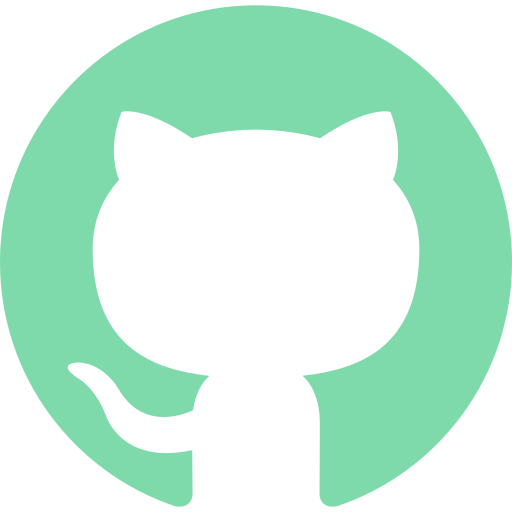
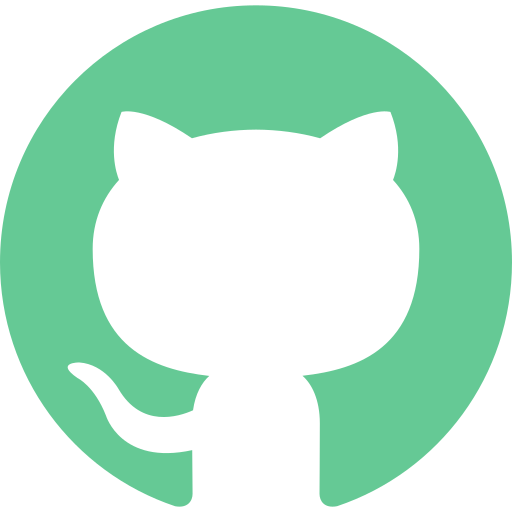
update

diff --git a/script/script.js b/script/script.js
@@ -1,4 +1,6 @@
 // get HTML elements and assign them to variables
+let body = document.getElementsByTagName("body")[0];
+let gb = document.getElementById("github");
 
 // info
 let nowPlaying = document.getElementById("now-playing");
@@ -7,9 +9,11 @@ let songName = document.getElementById("song-name");
 let artistName = document.getElementById("artist-name");
 
 // buttons
+let restart = document.getElementById("restart");
 let previousSong = document.getElementById("song-previous");
 let playPause = document.getElementById("pause-play");
 let nextSong = document.getElementById("song-next");
+let repeatSong = document.getElementById("repeat-song");
 
 // song-slider
 let current_Time = document.getElementById("current-time");
@@ -33,73 +37,111 @@ let trackList = [
     name: "Ylang Ylang (Slowed)",
     artist: "FKJ",
     image: "./images/ylang-ylang.png",
+    link: "https://open.spotify.com/artist/2FwDTncULUnmANIh7qKa5z",
     path: "./songs/FKJ - Ylang Ylang (Slowed-Reverb).mp3",
+    artistnamecolor: "#65c995",
+    darkcolor: "#7EDAAA",
+    backgroundColor: "#A1FFCE",
+    backgroundColorGradient: "linear-gradient(to right, #FAFFD1, #A1FFCE)",
+    class: "fkj",
+    github: "./images/github.png",
   },
   {
     name: "Let Go (Slowed)",
     artist: "Ark Patrol ft. Veronika Redd",
     image: "./images/let-go.png",
+    link: "https://open.spotify.com/artist/3zaxUd86U92CdZkNa6NUo9",
     path: "./songs/Ark Patrol - Let Go.mp3",
+    artistnamecolor: "#c95038",
+    darkcolor: "#dd664e",
+    backgroundColor: "#f6cab7",
+    backgroundColorGradient: "linear-gradient(to right, #faeae2, #f6cab7, #efaa90, #e7896d, #dd664e)",
+    class: "ark-patrol",
+    github: "./images/github1.png"
   },
   {
     name: "Love Unlimited",
     artist: "Blackbird Blackbird",
     image: "./images/love-unlimited.png",
+    link: "https://open.spotify.com/artist/2TWKl87Jnmd5MApKEpVCxA",
     path: "./songs/Blackbird Blackbird - Love Unlimited.mp3",
   },
   {
     name: "love, death, distraction",
     artist: "EDEN",
     image: "./images/love-death-distraction.png",
+    link: "https://open.spotify.com/artist/1t20wYnTiAT0Bs7H1hv9Wt",
     path: "./songs/EDEN - love, death, distraction.mp3",
   },
   {
     name: "Poison Tree",
     artist: "Grouper",
     image: "./images/poison-tree.png",
+    link: "https://open.spotify.com/artist/31uyAcnY0kjjKKIQZMKX4i",
     path: "./songs/Grouper - Poison Tree.mp3",
   },
   {
     name: "Comfort Chain",
     artist: "Instupendo",
     image: "./images/comfort-chain.png",
+    link: "https://open.spotify.com/artist/3ctnkEZGtVBTxS7IMin8nC",
     path: "./songs/Instupendo - Comfort Chain.mp3",
   },
   {
     name: "Gravity",
     artist: "EDEN",
     image: "./images/gravity.png",
+    link: "https://open.spotify.com/artist/1t20wYnTiAT0Bs7H1hv9Wt",
     path: "./songs/EDEN - Gravity.mp3",
   },
   {
     name: "Forever",
     artist: "Labirinth",
     image: "./images/forever.png",
+    link: "https://open.spotify.com/artist/2feDdbD5araYcm6JhFHHw7",
     path: "./songs/Labrinth – Forever.mp3",
   },
   {
     name: "Goodbye",
     artist: "Ramsey",
     image: "./images/goodbye.png",
+    link: "https://open.spotify.com/artist/1se3w7gpZkwcJYgHSPDoQ8",
     path: "./songs/Ramsey - Goodbye.mp3",
   },
   {
     name: "Yellow Box",
     artist: "The Neighbourhood",
     image: "./images/yellow-box.png",
+    link: "https://open.spotify.com/artist/77SW9BnxLY8rJ0RciFqkHh",
     path: "./songs/The Neighbourhood - Yellow Box.mp3",
   },
 ];
 //
 
 // add events to the elements
+restart.addEventListener("click", goToStart);
 previousSong.addEventListener("click", prevTrack);
 playPause.addEventListener("click", playPauseTrack);
 nextSong.addEventListener("click", nextTrack);
+repeatSong.addEventListener("click", songLoop);
 songSlider.addEventListener("change", seekTo);
 volumeSlider.addEventListener("change", setVolume);
 
 // functions
+function goToStart() {
+  currTrack.currentTime = 0;
+}
+//
+
+function songLoop() {
+  if (currTrack.loop == false) {
+    currTrack.setAttribute("loop", true);
+    repeatSong.style.color = "#000000";
+  } else {
+    currTrack.removeAttribute("loop");
+    repeatSong.style.color = "#000000c0";
+  }
+}
 
 // function to load new track from the tracklist
 function loadTrack(trackIndex) {
@@ -111,12 +153,24 @@ function loadTrack(trackIndex) {
   currTrack.src = trackList[trackIndex].path;
   currTrack.load();
 
-  //update details of the track
+  //update details of the track and page appearance
+  body.style.background = trackList[trackIndex].backgroundColorGradient;
+  songImg.style.boxShadow = "10px 8px 0px" + trackList[trackIndex].darkcolor;
   songImg.src = trackList[trackIndex].image;
+  gb.src = trackList[trackIndex].github;
+  songSlider.style.setProperty("--track-background", trackList[trackIndex].darkcolor);
+  volumeSlider.style.setProperty("--track-background", trackList[trackIndex].darkcolor);
   songName.textContent = trackList[trackIndex].name;
   artistName.textContent = trackList[trackIndex].artist;
+  artistName.addEventListener("mouseover", function () {
+    artistName.style.color = trackList[trackIndex].artistnamecolor;
+  });
+  artistName.addEventListener("mouseout", function () {
+    artistName.style.color = "#000000c0";
+  });
   nowPlaying.textContent =
     "Now playing " + (trackIndex + 1) + " of " + trackList.length;
+  artistName.setAttribute("href", trackList[trackIndex].link);
 
   // set an interval of 1000 milliseconds (1 second) for updating the seek slider
   updateTimer = setInterval(seekUpdate, 1000);
@@ -243,3 +297,4 @@ function seekUpdate() {
   }
 }
 //
+

diff --git a/tries/ark-patrol.html b/tries/ark-patrol.html
@@ -1,6 +1,22 @@
-@font-face {
+<!DOCTYPE html>
+<html lang="en">
+
+<head>
+    <meta charset="UTF-8">
+    <meta http-equiv="X-UA-Compatible" content="IE=edge">
+    <meta name="viewport" content="width=device-width, initial-scale=1.0">
+    <title>Music Player</title>
+    <link href="./style/style.css" rel="stylesheet">
+    <script src="./script/script.js" defer></script>
+    <link href="./images/musical-note.png" rel="icon">
+    <!-- <link rel="stylesheet" href="https://cdnjs.cloudflare.com/ajax/libs/font-awesome/6.0.0-beta3/css/all.min.css"
+        integrity="sha512-Fo3rlrZj/k7ujTnHg4CGR2D7kSs0v4LLanw2qksYuRlEzO+tcaEPQogQ0KaoGN26/zrn20ImR1DfuLWnOo7aBA=="
+        crossorigin="anonymous" referrerpolicy="no-referrer" /> -->
+    <link href="https://kit-pro.fontawesome.com/releases/v5.15.4/css/pro.min.css" rel="stylesheet">
+    <style>
+        @font-face {
     font-family: myFont;
-    src: url("./font/typewcond_regular.otf");
+    src: url("../style/font/typewcond_regular.otf");
 }
 
 * {
@@ -12,8 +28,8 @@
 }
 
 body {
-    background: #A1FFCE;
-    background: linear-gradient(to right, #FAFFD1, #A1FFCE);
+    background: #f6cab7;
+    background: linear-gradient(to right, #faeae2, #f6cab7, #efaa90, #e7896d, #dd664e);
 
 }
 
@@ -61,8 +77,8 @@ a:hover {
     margin-bottom: 15px;
 }
 
-#img-song {
-    box-shadow: 10px 8px 0px #7EDAAA;
+#song-img img {
+    box-shadow: 10px 8px 0px #dd664e;
 }
 
 .buttons {
@@ -89,8 +105,7 @@ a:hover {
     font-size: 2rem;
 }
 
-#restart,
-#repeat-song {
+#restart, #repeat-song {
     font-size: 1.4rem;
 }
 
@@ -135,13 +150,19 @@ input[type="range"]:focus {
 input[type="range"]::-webkit-slider-runnable-track {
     height: 5px;
     cursor: pointer;
-    background: var(--track-background, #7EDAAA);
+}
+
+.fkj::-webkit-slider-runnable-track {
+    background: #dd664e;
 }
 
 input[type="range"]::-moz-range-track {
     height: 5px;
     cursor: pointer;
-    background: var(--track-background, #7EDAAA);
+}
+
+.fkj::-moz-range-track {
+    background: #dd664e;
 }
 
 input[type="range"]::-webkit-slider-thumb {
@@ -201,3 +222,38 @@ input[type="range"]::-ms-thumb:hover {
         width: 85px;
     }
 }
+    </style>
+</head>
+
+<body>
+    <a id="github" href="https://github.com/isabdch" target="_blank"><img src="../images/github1.png" height="23px"></a>
+    <div class="player">
+        <div class="info">
+            <div id="now-playing">Now playing X of Y</div>
+            <div id="song-img"><img id="img-song" src="../images/let-go.png" alt="fkj - ylang ylang" height="220px">
+            </div>
+            <div id="song-name">Song name</div>
+            <a id="artist-name" target="_blank" href="https://open.spotify.com/artist/2FwDTncULUnmANIh7qKa5z"></a></a>
+        </div>
+        <div class="buttons">
+            <div id="go-start"><i id="restart" class="fas fa-undo"></i></div>
+            <div id="previous-song"><i id="song-previous" class="fas fa-step-backward"></i></div>
+            <div id="play-pause"><i id="pause-play" class="fas fa-play-circle"></i></div>
+            <!-- <i class="fas fa-pause-circle"></i> -->
+            <div id="next-song"><i id="song-next" class="fas fa-step-forward"></i></div>
+            <div id="repeat"><i id="repeat-song" class="fas fa-repeat"></i></div>
+        </div>
+        <div class="slider">
+            <div id="current-time">00:00</div>
+            <input class="fkj" id="song-slider" type="range" value="0" min="0" max="100">
+            <div id="total-duration">00:00</div>
+        </div>
+        <div class="slider">
+            <i class="fas fa-volume-off"></i>
+            <input class="fkj" id="volume-slider" type="range" value="50" min="0" max="100">
+            <i class="fas fa-volume-up"></i>
+        </div>
+    </div>
+</body>
+
+</html>

diff --git a/index.html b/index.html
@@ -9,34 +9,38 @@
     <link href="./style/style.css" rel="stylesheet">
     <script src="./script/script.js" defer></script>
     <link href="./images/musical-note.png" rel="icon">
-    <link rel="stylesheet" href="https://cdnjs.cloudflare.com/ajax/libs/font-awesome/6.0.0-beta3/css/all.min.css"
+    <!-- <link rel="stylesheet" href="https://cdnjs.cloudflare.com/ajax/libs/font-awesome/6.0.0-beta3/css/all.min.css"
         integrity="sha512-Fo3rlrZj/k7ujTnHg4CGR2D7kSs0v4LLanw2qksYuRlEzO+tcaEPQogQ0KaoGN26/zrn20ImR1DfuLWnOo7aBA=="
-        crossorigin="anonymous" referrerpolicy="no-referrer" />
+        crossorigin="anonymous" referrerpolicy="no-referrer" /> -->
+    <link href="https://kit-pro.fontawesome.com/releases/v5.15.4/css/pro.min.css" rel="stylesheet">
 </head>
 
 <body>
-    <a href="https://github.com/isabdch" target="_blank"><img src="./images/github.png" height="23px"></a>
+    <a id="gh" href="https://github.com/isabdch" target="_blank"><img id="github" src="./images/github.png" height="23px"></a>
     <div class="player">
         <div class="info">
             <div id="now-playing">Now playing X of Y</div>
-            <div id="song-img"><img id="img-song" src="./images/ylang-ylang.png" alt="fkj - ylang ylang" height="220px"></div>
+            <div id="song-img"><img id="img-song" src="./images/ylang-ylang.png" height="220px">
+            </div>
             <div id="song-name">Song name</div>
-            <div id="artist-name">Artist name</div>
+            <a id="artist-name" target="_blank" href="https://open.spotify.com/artist/2FwDTncULUnmANIh7qKa5z"></a></a>
         </div>
         <div class="buttons">
+            <div id="go-start"><i id="restart" class="fas fa-undo"></i></div>
             <div id="previous-song"><i id="song-previous" class="fas fa-step-backward"></i></div>
             <div id="play-pause"><i id="pause-play" class="fas fa-play-circle"></i></div>
             <!-- <i class="fas fa-pause-circle"></i> -->
             <div id="next-song"><i id="song-next" class="fas fa-step-forward"></i></div>
+            <div id="repeat"><i id="repeat-song" class="fas fa-repeat"></i></div>
         </div>
         <div class="slider">
             <div id="current-time">00:00</div>
-            <input id="song-slider" type="range" value="0" min="0" max="100">
+            <input class="fkj" id="song-slider" type="range" value="0" min="0" max="100">
             <div id="total-duration">00:00</div>
         </div>
         <div class="slider">
             <i class="fas fa-volume-off"></i>
-            <input id="volume-slider" type="range" value="50" min="0" max="100">
+            <input class="fkj" id="volume-slider" type="range" value="50" min="0" max="100">
             <i class="fas fa-volume-up"></i>
         </div>
     </div>
